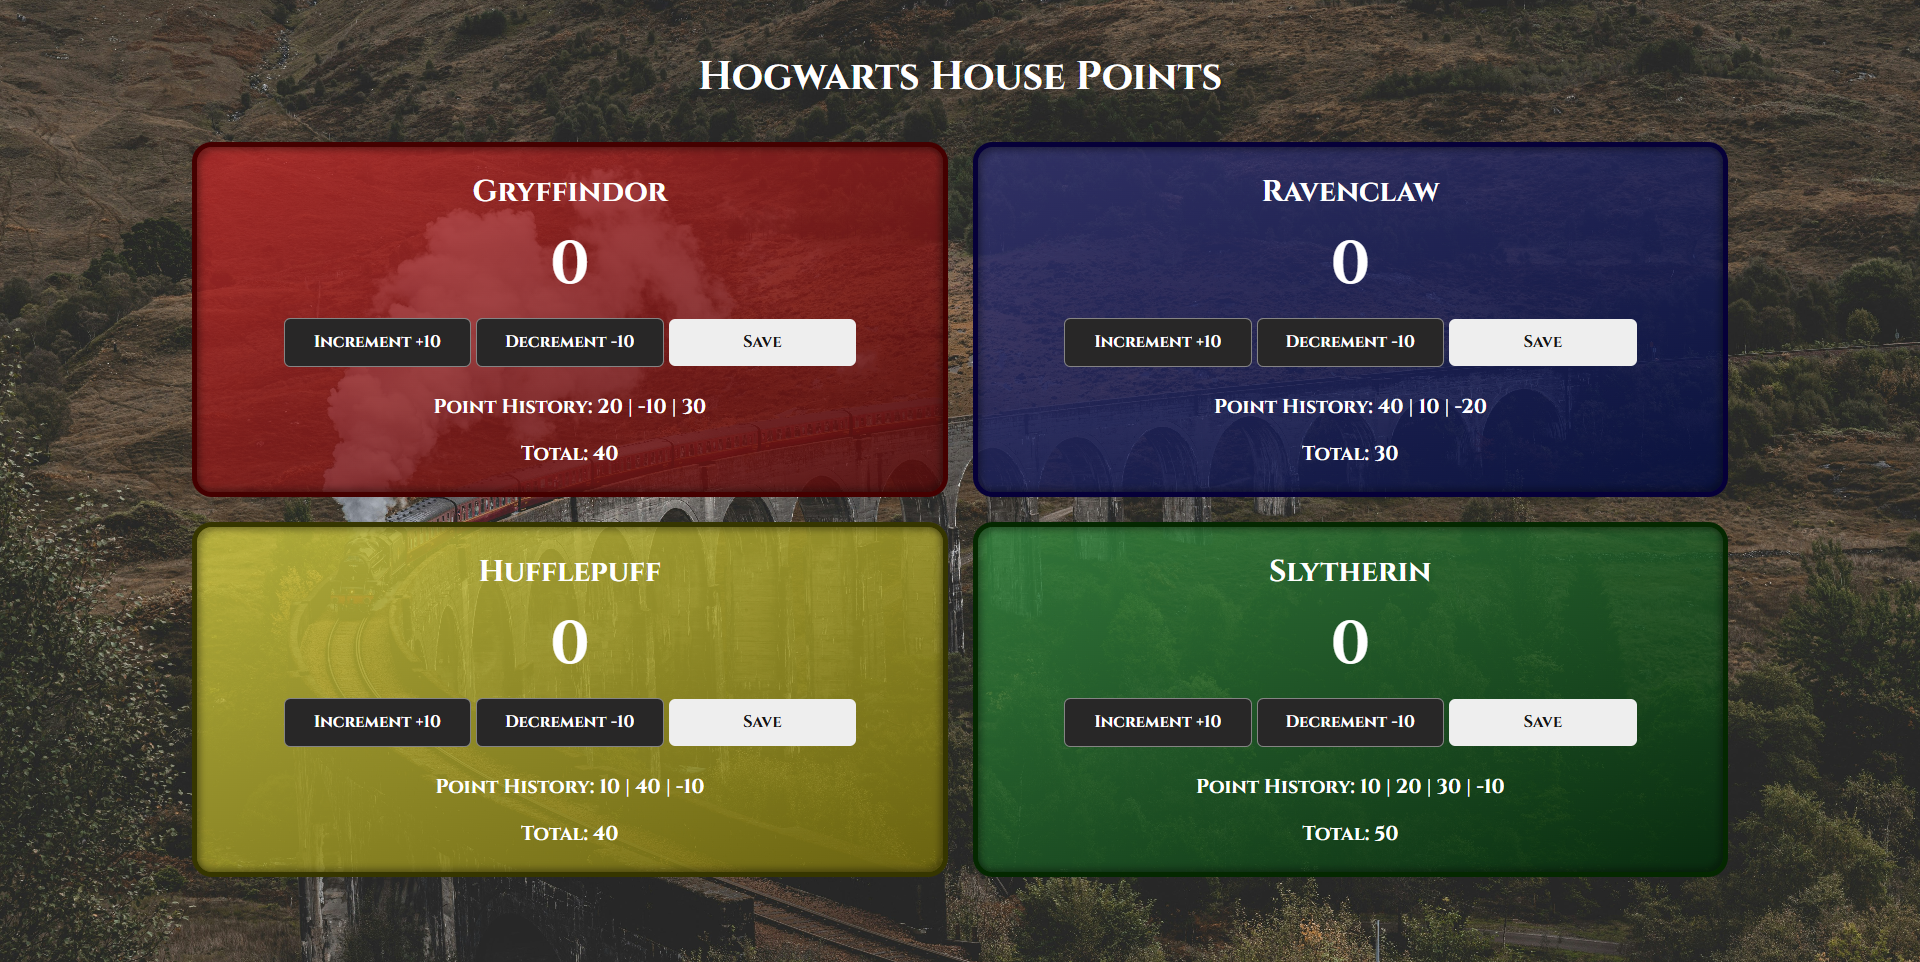
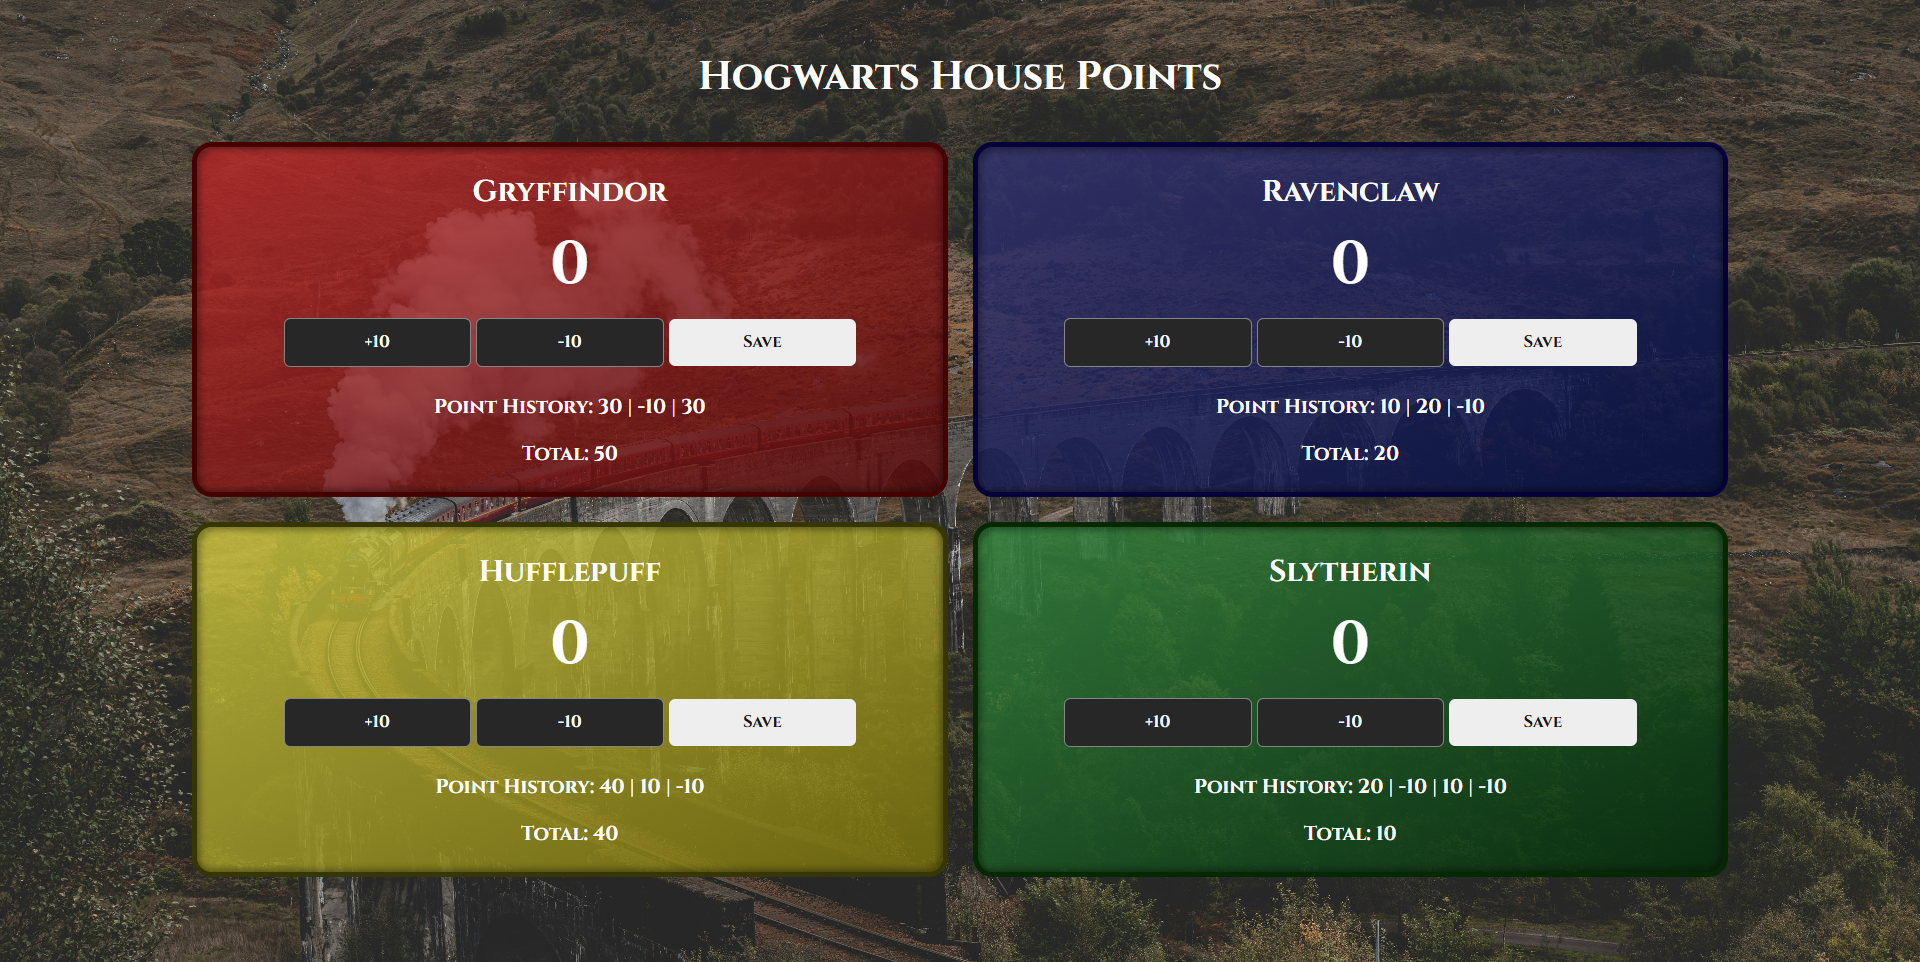
Refactor JS

diff --git a/index.html b/index.html
@@ -4,77 +4,19 @@
     <meta charset="UTF-8" />
     <meta name="viewport" content="width=device-width, initial-scale=1.0" />
     <title>Hogwarts House Points</title>
-
     <link rel="preconnect" href="https://fonts.googleapis.com" />
     <link rel="preconnect" href="https://fonts.gstatic.com" crossorigin />
     <link
       href="https://fonts.googleapis.com/css2?family=Cinzel:wght@400..900&display=swap"
       rel="stylesheet"
     />
-    <link rel="stylesheet" href="index.css" />
+    <link rel="stylesheet" href="style.css" />
   </head>
   <body>
     <div id="container">
       <h1>Hogwarts House Points</h1>
-      <div class="grid-container">
-        <div class="house gryff-house">
-          <h2>Gryffindor</h2>
-          <p id="gryffindor-point-el">0</p>
-          <button id="gryffindor-increment-btn" class="btn">
-            Increment +10
-          </button>
-          <button id="gryffindor-decrement-btn" class="btn">
-            Decrement -10
-          </button>
-          <button id="gryffindor-save-btn" class="save-btn">Save</button>
-          <p>Point History: <span id="gryffindor-entries-el"></span></p>
-          <p>Total: <span id="gryffindor-total-el">0</span></p>
-        </div>
-
-        <div class="house raven-house">
-          <h2>Ravenclaw</h2>
-          <p id="ravenclaw-point-el">0</p>
-          <button id="ravenclaw-increment-btn" class="btn">
-            Increment +10
-          </button>
-          <button id="ravenclaw-decrement-btn" class="btn">
-            Decrement -10
-          </button>
-          <button id="ravenclaw-save-btn" class="save-btn">Save</button>
-          <p>Point History: <span id="ravenclaw-entries-el"></span></p>
-          <p>Total: <span id="ravenclaw-total-el">0</span></p>
-        </div>
-
-        <div class="house huffle-house">
-          <h2>Hufflepuff</h2>
-          <p id="hufflepuff-point-el">0</p>
-          <button id="hufflepuff-increment-btn" class="btn">
-            Increment +10
-          </button>
-          <button id="hufflepuff-decrement-btn" class="btn">
-            Decrement -10
-          </button>
-          <button id="hufflepuff-save-btn" class="save-btn">Save</button>
-          <p>Point History: <span id="hufflepuff-entries-el"></span></p>
-          <p>Total: <span id="hufflepuff-total-el">0</span></p>
-        </div>
-
-        <div class="house slyth-house">
-          <h2>Slytherin</h2>
-          <p id="slytherin-point-el">0</p>
-          <button id="slytherin-increment-btn" class="btn">
-            Increment +10
-          </button>
-          <button id="slytherin-decrement-btn" class="btn">
-            Decrement -10
-          </button>
-          <button id="slytherin-save-btn" class="save-btn">Save</button>
-          <p>Point History: <span id="slytherin-entries-el"></span></p>
-          <p>Total: <span id="slytherin-total-el">0</span></p>
-        </div>
-      </div>
     </div>
 
-    <script src="index.js"></script>
+    <script src="script.js"></script>
   </body>
 </html>

diff --git a/script.js b/script.js
@@ -1,0 +1,72 @@
+// House definitions
+const houses = {
+  gryffindor: { name: "Gryffindor", point: 0, total: 0, step: 10, entries: [] },
+  ravenclaw: { name: "Ravenclaw", point: 0, total: 0, step: 10, entries: [] },
+  hufflepuff: { name: "Hufflepuff", point: 0, total: 0, step: 10, entries: [] },
+  slytherin: { name: "Slytherin", point: 0, total: 0, step: 10, entries: [] },
+};
+
+// Render houses dynamically
+const container = document.getElementById("container");
+
+const grid = document.createElement("div");
+grid.classList.add("grid-container");
+container.appendChild(grid);
+
+Object.keys(houses).forEach((house) => {
+  const t = houses[house];
+
+  const houseDiv = document.createElement("div");
+  houseDiv.className = `house ${house}-house`;
+
+  houseDiv.innerHTML = `
+    <h2>${t.name}</h2>
+    <p id="${house}-point-el">0</p>
+    <button id="${house}-increment-btn" class="btn">+10</button>
+    <button id="${house}-decrement-btn" class="btn">-10</button>
+    <button id="${house}-save-btn" class="save-btn">Save</button>
+    <p>Point History: <span id="${house}-entries-el"></span></p>
+    <p>Total: <span id="${house}-total-el">0</span></p>
+  `;
+
+  grid.appendChild(houseDiv);
+});
+
+// Hook up event listeners and DOM elements
+Object.keys(houses).forEach((house) => {
+  const t = houses[house];
+
+  t.pointEl = document.getElementById(`${house}-point-el`);
+  t.entriesEl = document.getElementById(`${house}-entries-el`);
+  t.totalEl = document.getElementById(`${house}-total-el`);
+  t.incBtn = document.getElementById(`${house}-increment-btn`);
+  t.decBtn = document.getElementById(`${house}-decrement-btn`);
+  t.saveBtn = document.getElementById(`${house}-save-btn`);
+
+  t.incBtn?.addEventListener("click", () => changePoint(house, t.step));
+  t.decBtn?.addEventListener("click", () => changePoint(house, -t.step));
+  t.saveBtn?.addEventListener("click", () => save(house));
+});
+
+// Update functions
+function updateTeam(house) {
+  const t = houses[house];
+  if (t.pointEl) t.pointEl.textContent = t.point;
+  if (t.entriesEl) t.entriesEl.textContent = t.entries.join(" | ");
+  if (t.totalEl) t.totalEl.textContent = t.total;
+}
+
+function changePoint(house, amount) {
+  const t = houses[house];
+  t.point += amount; // allow negative points
+  updateTeam(house);
+}
+
+function save(house) {
+  const t = houses[house];
+  if (t.point === 0) return;
+  t.entries.push(t.point);
+  t.total += t.point;
+  t.point = 0;
+  updateTeam(house);
+}

diff --git a/style.css b/style.css
@@ -32,7 +32,7 @@ h1 {
 }
 
 /* House themes */
-.gryff-house {
+.gryffindor-house {
   background: linear-gradient(
     to bottom right,
     rgba(188, 39, 39, 0.8),
@@ -41,7 +41,7 @@ h1 {
   border-color: #450000;
 }
 
-.raven-house {
+.ravenclaw-house {
   background: linear-gradient(
     to bottom right,
     rgba(51, 51, 115, 0.8),
@@ -50,7 +50,7 @@ h1 {
   border-color: #060039;
 }
 
-.huffle-house {
+.hufflepuff-house {
   background: linear-gradient(
     to bottom right,
     rgba(209, 204, 65, 0.8),
@@ -59,7 +59,7 @@ h1 {
   border-color: #363600;
 }
 
-.slyth-house {
+.slytherin-house {
   background: linear-gradient(
     to bottom right,
     rgba(53, 138, 63, 0.8),
